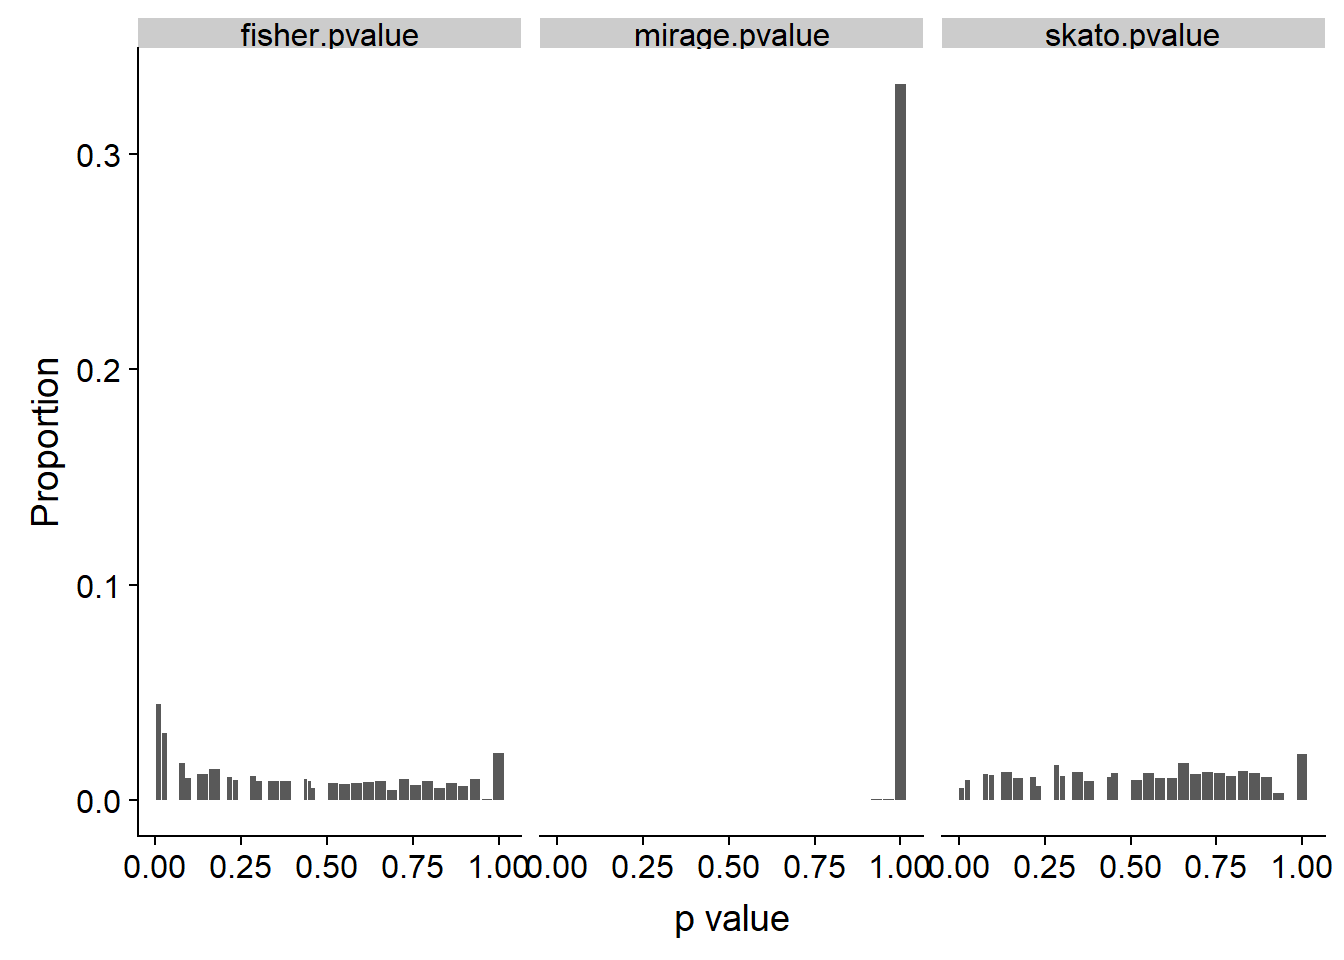
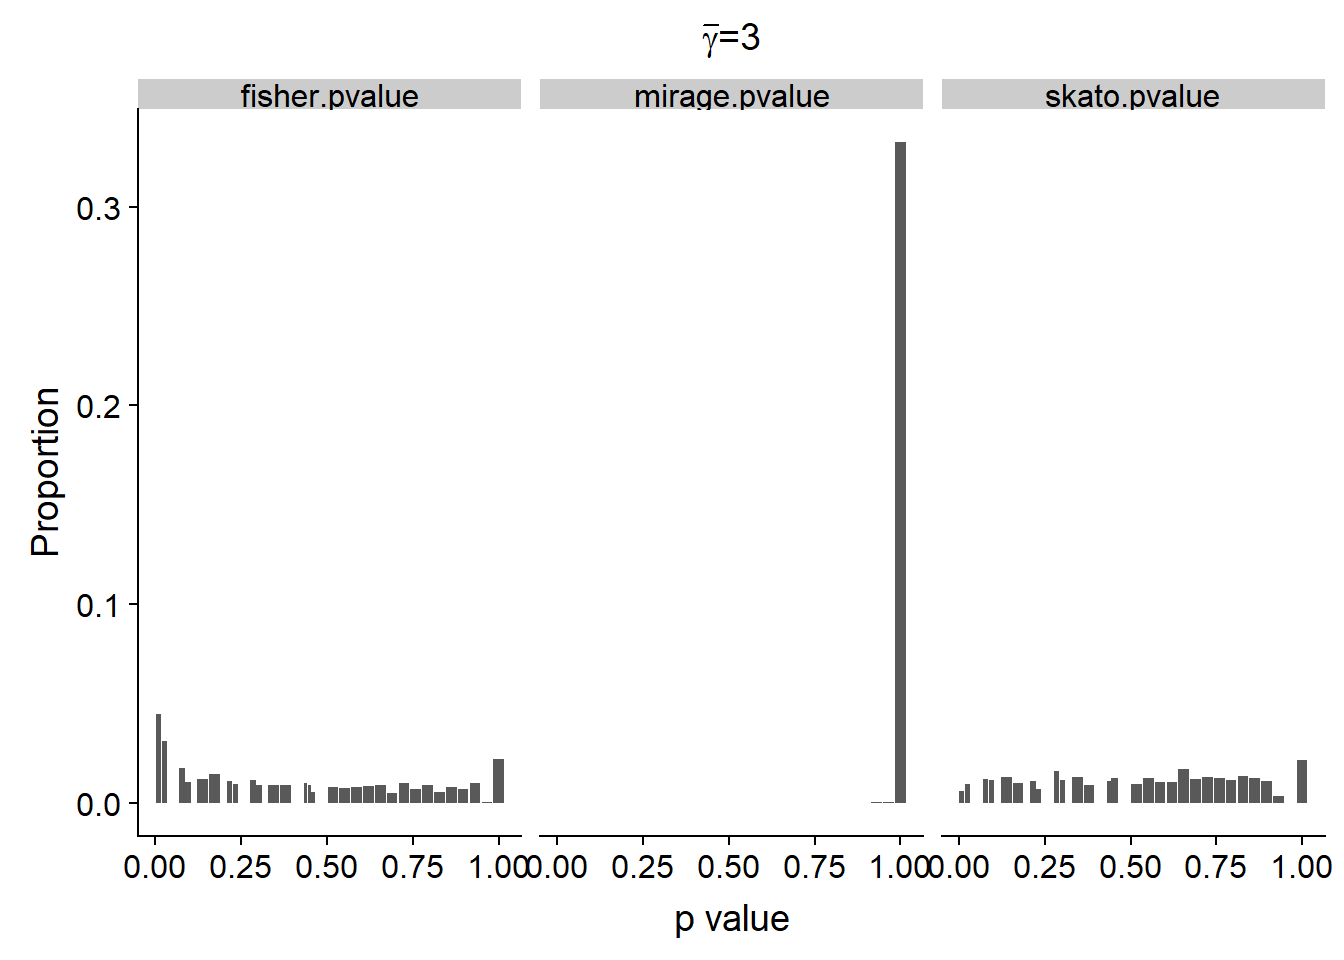
4/15/2019

diff --git a/docs/simulation-study.html b/docs/simulation-study.html
@@ -422,6 +422,10 @@ div.tocify {
 <p>To investigate the type one error, we simulated one independent data set, with <span class="math inline">\(N1=N0=3000\)</span>, 1000 genes are all non-risk genes. Every gene has 100 variants in three non-risk variant groups; no risk variant groups i.e., <span class="math inline">\(\eta=0\)</span> and other parameters are pretty the same as before <span class="math inline">\(\alpha_0=0.1, \beta_0=1000,\alpha= 0.1, \beta=2000,\bar{\gamma}=3,4,5,\sigma= 1\)</span>.</p>
 <pre><code>## `stat_bin()` using `bins = 30`. Pick better value with `binwidth`.</code></pre>
 <p><img src="simulation-study_files/figure-html/unnamed-chunk-22-1.png" width="672" /></p>
+<pre><code>## `stat_bin()` using `bins = 30`. Pick better value with `binwidth`.</code></pre>
+<p><img src="simulation-study_files/figure-html/unnamed-chunk-22-2.png" width="672" /></p>
+<pre><code>## `stat_bin()` using `bins = 30`. Pick better value with `binwidth`.</code></pre>
+<p><img src="simulation-study_files/figure-html/unnamed-chunk-22-3.png" width="672" /></p>
 </div>
 </div>
 <div id="bayesian-fdr-control" class="section level3">
